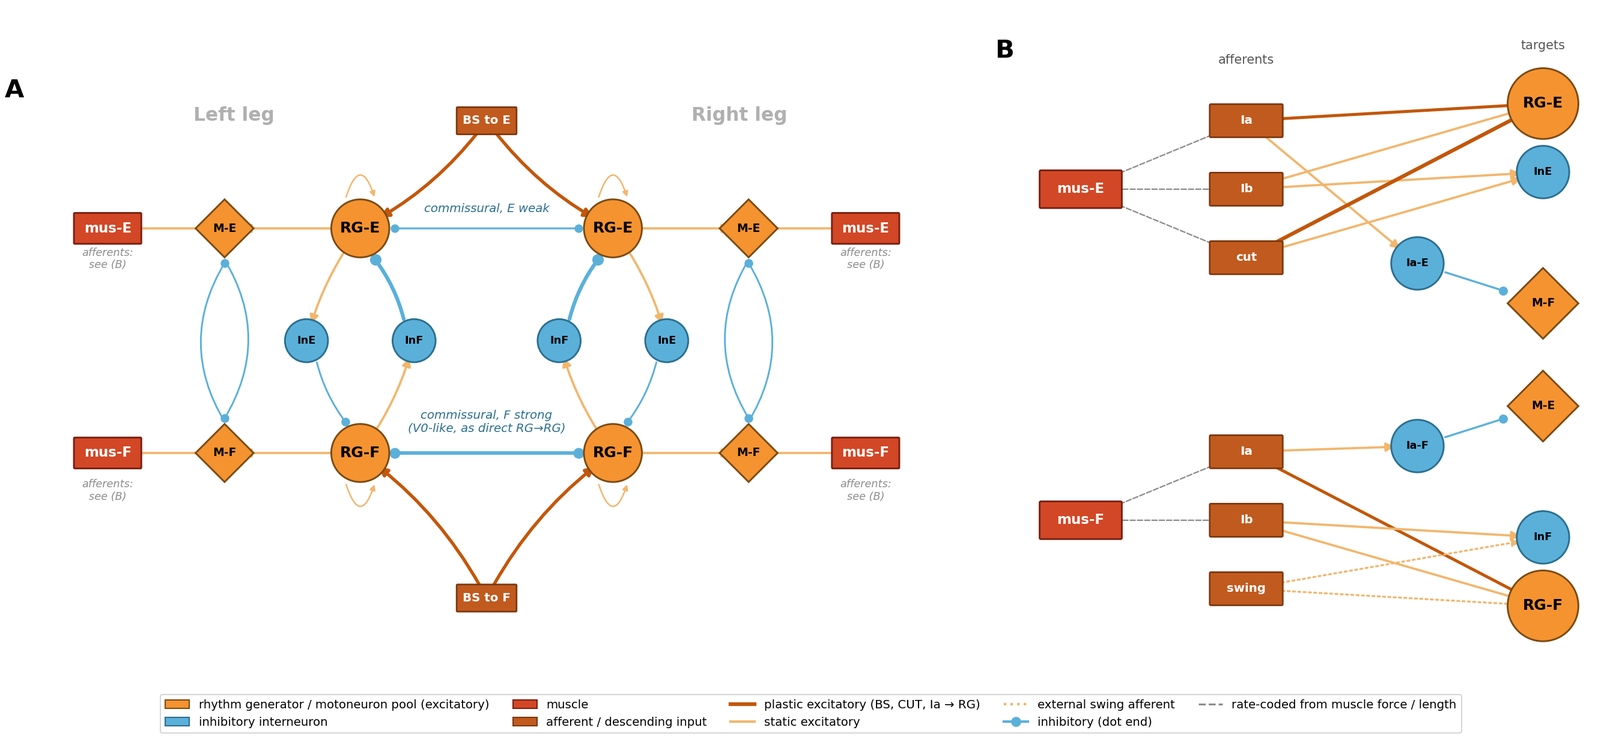
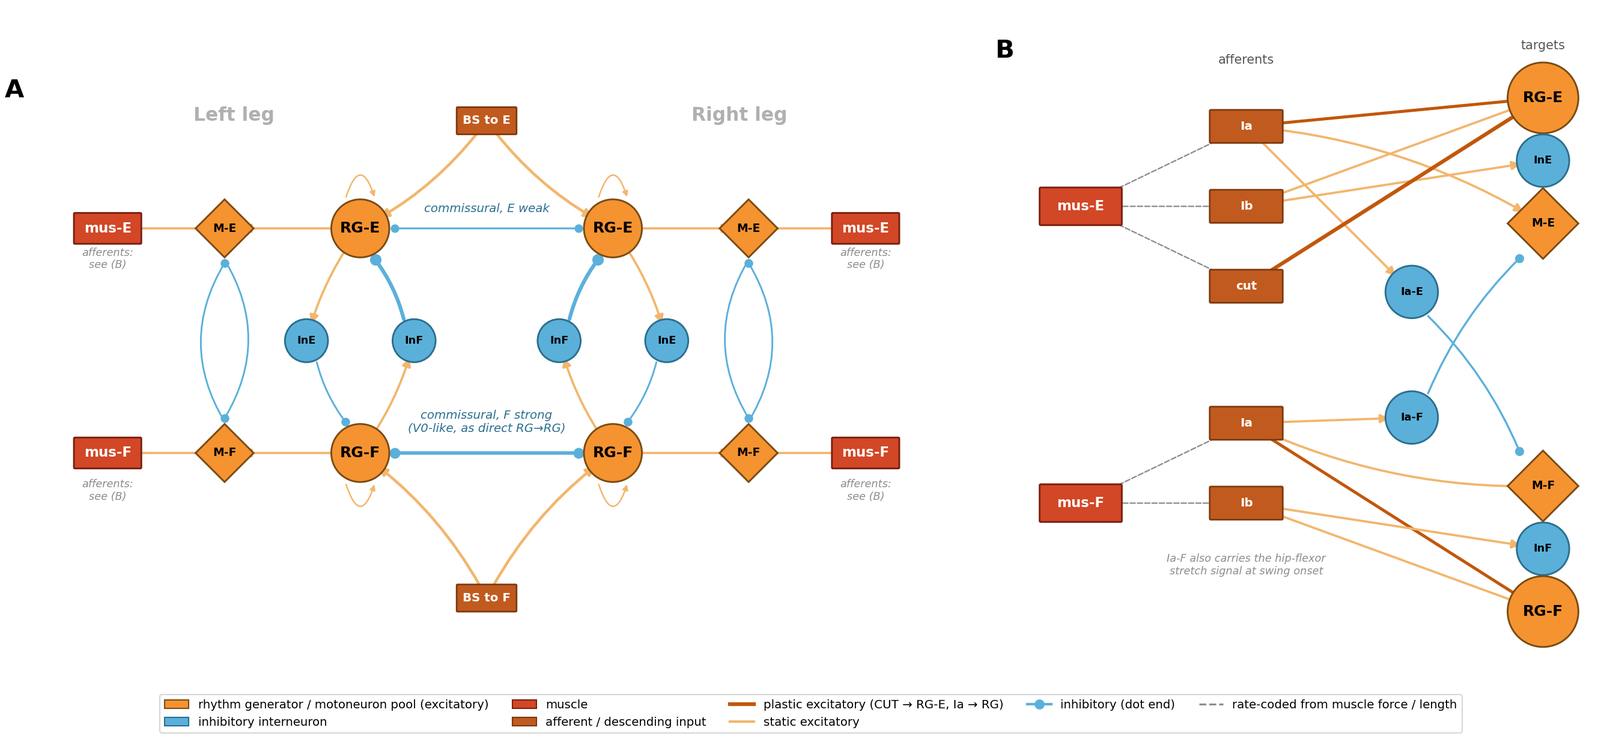
Architecture round (human): homonymous Ia->motoneuron, no CUT->InE, swing afferent folded into the flexor Ia; Figure 1 regenerated; five modes rerun

diff --git a/cpg_2legs_fast.py b/cpg_2legs_fast.py
@@ -705,6 +705,18 @@ def main():
                          "stretch signal; Grillner & Rossignol 1978; Pearson 1995). "
                          "Mirrors the stance Ia-E ramp to clock the flexor. 0 = off "
                          "(legacy intrinsic-only flexor); 80 is a typical on value.")
+    ap.add_argument("--ia-mn-weight", type=float, default=0.0,
+                    help="MOD_IA_MN (PLAN.md P7/P8 architecture round): weight (pA) of the homonymous "
+                         "monosynaptic Ia -> motoneuron excitation (Ia-E -> M-E, Ia-F -> M-F, static, delay "
+                         "ia_path). 0 = none (rat, original wiring). Ia reaches the motoneurons directly "
+                         "as well as the rhythm generators and the Ia interneurons.")
+    ap.add_argument("--p-ia2mn", type=float, default=0.5,
+                    help="MOD_IA_MN: connection probability of Ia -> motoneuron (K = p x production Ia size).")
+    ap.add_argument("--swing-afferent-as-ia", action=argparse.BooleanOptionalAction, default=False,
+                    help="MOD_SWING_AS_IA: the flexor swing afferent (--ia-ext-f-hz, --swing-afferent-tau-ms) is "
+                         "not a separate Poisson group projecting to RG-F and InF: its phasic rate (hip-flexor "
+                         "stretch at swing onset) is added to the flexor Ia afferent rate and acts through "
+                         "the Ia projections (RG-F, Ia interneurons, M-F). Off = original separate group.")
     # ---- MOD_EES: epidural electrical stimulation (PLAN.md P7) ----
     ap.add_argument("--ees-hz", type=float, default=0.0,
                     help="MOD_EES (PLAN.md P7): epidural stimulation pulse rate (Hz), a regular "
@@ -1428,6 +1440,9 @@ def main():
     if EES_HZ < 0.0 or not all(0.0 <= a <= 1.0 for a in (EES_AMP, EES_AMP_IB, EES_AMP_CUT)):
         raise SystemExit("--ees-hz must be >= 0 and --ees-amp / --ees-amp-ib / --ees-amp-cut within 0..1")
 
+    IA_MN_W     = float(args.ia_mn_weight)  # MOD_IA_MN (0 = none)
+    P_IA2MN     = float(args.p_ia2mn)
+    SWING_AS_IA = bool(args.swing_afferent_as_ia)  # MOD_SWING_AS_IA
     # ---- MOD_PACED_GAIT: explicit 1-s trot cycle constants ----
     if PACED_GAIT:
         STEP_PERIOD_MS = q_ms(float(args.step_period_ms))   # full stride (both legs)
@@ -1774,7 +1789,7 @@ def main():
         # 1978; Pearson 1995). A single phasic group active during swing,
         # mirroring the stance Ia-E ramp; drives InF → reinforces the flexor.
         ia_ext_pg_f = None
-        if PACED_GAIT and IA_EXT_F_HZ > 0.0:
+        if PACED_GAIT and IA_EXT_F_HZ > 0.0 and not SWING_AS_IA:
             ia_ext_pg_f = nest.Create("poisson_generator", N_IA_F)
             nest.SetStatus(ia_ext_pg_f, {"rate": 0.0})
 
@@ -2054,8 +2069,9 @@ def main():
 
         # MOD_CUT_REFLEX: CUT → InE — cutaneous afferents reinforce the stance-phase
         # extensor reflex by exciting the flexor-suppressing interneuron.
-        connect("cut_in->in_e", "cut_in", L["cut_in"], L["in_e"], P_CUT2INE,
-                syn_spec={"synapse_model": "static_synapse", "weight": W_CUT2INE, "delay": delay["cut_to_rg"]})
+        if W_CUT2INE != 0.0:  # human: 0 (cutaneous reaches InE through CUT -> RG-E -> InE only)
+            connect("cut_in->in_e", "cut_in", L["cut_in"], L["in_e"], P_CUT2INE,
+                    syn_spec={"synapse_model": "static_synapse", "weight": W_CUT2INE, "delay": delay["cut_to_rg"]})
 
         if USE_STATIC_PARALLEL:
             connect("bs_in_e->rg_e:static_parallel", "bs_in_e", L["bs_in_e"], L["rg_e"], P_STATIC_IN,
@@ -2084,6 +2100,14 @@ def main():
                 syn_spec={"synapse_model": "static_synapse", "weight": W_COMM_E_INH, "delay": delay["commissural"]})
         connect("rg_e->rg_e:commissural", "rg_e", RR["rg_e"], LL["rg_e"], P_COMM_E,
                 syn_spec={"synapse_model": "static_synapse", "weight": W_COMM_E_INH, "delay": delay["commissural"]})
+
+    if IA_MN_W != 0.0:  # MOD_IA_MN: built after everything else (same RNG order for the rest of the network)
+        for side in LEGS:
+            L = leg[side]
+            connect("ia_in_e->m_e", "ia_in_e", L["ia_in_e"], L["m_e"], P_IA2MN,
+                    syn_spec={"synapse_model": "static_synapse", "weight": IA_MN_W, "delay": delay["ia_path"]})
+            connect("ia_in_f->m_f", "ia_in_f", L["ia_in_f"], L["m_f"], P_IA2MN,
+                    syn_spec={"synapse_model": "static_synapse", "weight": IA_MN_W, "delay": delay["ia_path"]})
 
     if unknown_ovr:
         raise ConfigError(f"connectivity.indegree_override has unknown projections {sorted(unknown_ovr)} "
@@ -2618,6 +2642,18 @@ def main():
             nest.SetStatus(rec, {"n_events": 0})
         return cur - last_n, 0
 
+    SWING_AFF_ACTIVE = bool(PACED_GAIT and IA_EXT_F_HZ > 0.0)
+    SWING_AFF_RATE = {"L": 0.0, "R": 0.0}  # MOD_SWING_AS_IA: current swing term added to the flexor Ia rate (Hz)
+
+    def swing_aff_set(side, rate):
+        """Flexor swing afferent rate. Original: a separate Poisson group. MOD_SWING_AS_IA: a term of the flexor Ia."""
+        if not SWING_AFF_ACTIVE:
+            return
+        if SWING_AS_IA:
+            SWING_AFF_RATE[side] = float(rate)
+        else:
+            nest.SetStatus(leg[side]["ia_ext_pg_f"], {"rate": rate})
+
     def update_leg(side: str, t_ms: float, dt_ms_actual: float, cut_active_frac: float, do_rate_update: bool):
         dt_s = float(dt_ms_actual) / 1000.0
         L = leg[side]
@@ -2773,7 +2809,7 @@ def main():
             vel_e = max(0.0, (S["len_e"] - len_e_prev) / dt_s_safe)
             vel_f = max(0.0, (S["len_f"] - len_f_prev) / dt_s_safe)
             ia_e = IA_BASE_HZ + IA_K_STRETCH * stretch_e + IA_K_VEL * vel_e
-            ia_f = IA_BASE_HZ + IA_K_STRETCH * stretch_f + IA_K_VEL * vel_f
+            ia_f = IA_BASE_HZ + IA_K_STRETCH * stretch_f + IA_K_VEL * vel_f + SWING_AFF_RATE[side]
             ib_e = clamp(IA_FEEDBACK_GAIN * (IB_BASE_HZ + IB_K_FORCE * S["force_e"]), 0.0, IB_RATE_MAX_HZ)
             ib_f = clamp(IA_FEEDBACK_GAIN_IB_F * (IB_BASE_HZ + IB_K_FORCE * S["force_f"]), 0.0, IB_RATE_MAX_HZ)
         else:
@@ -2972,8 +3008,7 @@ def main():
             if is_on:
                 # Stance: Ia-E heel->mid->toe sub-group sequenced by elapsed time
                 # since this leg's own stance onset (self-timed, not clock-scheduled).
-                if leg[side]["ia_ext_pg_f"] is not None:
-                    nest.SetStatus(leg[side]["ia_ext_pg_f"], {"rate": 0.0})
+                swing_aff_set(side, 0.0)
                 elapsed = max(0.0, t_now - stance_onset_ms[side])
                 g_idx = min(N_IA_GROUPS_PACED - 1, int(elapsed // max(1e-9, SUB_STANCE_MS)))
                 for gi, g in enumerate(leg[side]["ia_ext_pg_e"]):
@@ -2981,11 +3016,11 @@ def main():
             else:
                 for g in leg[side]["ia_ext_pg_e"]:
                     nest.SetStatus(g, {"rate": 0.0})
-                if leg[side]["ia_ext_pg_f"] is not None:
+                if SWING_AFF_ACTIVE:
                     rate_f = IA_EXT_F_HZ
                     if SWING_AFF_TAU_MS > 0.0:  # PLAN.md P5: phasic swing afferent
                         rate_f = IA_EXT_F_HZ * float(np.exp(-max(0.0, t_now - phase_onset_ms[side]) / SWING_AFF_TAU_MS))
-                    nest.SetStatus(leg[side]["ia_ext_pg_f"], {"rate": rate_f})
+                    swing_aff_set(side, rate_f)
 
         def cut_force_gate(side, t_now):
             # Reads force_e computed by THIS chunk's update_leg() call, which itself
@@ -3210,8 +3245,7 @@ def main():
                                {"rate": CUT_FEEDBACK_GAIN * CUT_RATE_ON_HZ if in_stance else CUT_RATE_OFF_HZ})
                 for gi, g in enumerate(leg[side]["ia_ext_pg_e"]):
                     nest.SetStatus(g, {"rate": IA_EXT_HZ[gi] if gi == g_idx else 0.0})
-                if leg[side]["ia_ext_pg_f"] is not None:
-                    nest.SetStatus(leg[side]["ia_ext_pg_f"], {"rate": 0.0 if in_stance else IA_EXT_F_HZ})
+                swing_aff_set(side, 0.0 if in_stance else IA_EXT_F_HZ)
                 _applied[side] = ph_state[side]
             on = {side: 1.0 if ph_state[side][0] else 0.0 for side in LEGS}
             run_window(min(b - a, SIM_MS - t_ms), cut_active_frac=on, log_cut_on=on)
@@ -3237,16 +3271,14 @@ def main():
             nest.SetStatus(leg[swing]["cut_pg"], {"rate": CUT_RATE_OFF_HZ})
             for g in leg[swing]["ia_ext_pg_e"]:
                 nest.SetStatus(g, {"rate": 0.0})
-            if leg[swing]["ia_ext_pg_f"] is not None:
-                nest.SetStatus(leg[swing]["ia_ext_pg_f"], {"rate": IA_EXT_F_HZ})
+            swing_aff_set(swing, IA_EXT_F_HZ)
 
             # Stance leg: CUT ON, scaled by loading-dependent cutaneous gain
             # (full at weight-bearing, attenuated at toe/air stepping); flexor
             # swing-afferent OFF (this leg is in stance).
             nest.SetStatus(leg[stance]["cut_pg"],
                            {"rate": CUT_FEEDBACK_GAIN * CUT_RATE_ON_HZ})
-            if leg[stance]["ia_ext_pg_f"] is not None:
-                nest.SetStatus(leg[stance]["ia_ext_pg_f"], {"rate": 0.0})
+            swing_aff_set(stance, 0.0)
 
             # Sequential Ia-E sub-groups: heel (60 Hz) → mid (80 Hz) → toe (100 Hz)
             for g_idx in range(N_IA_GROUPS_PACED):
@@ -3363,6 +3395,12 @@ def main():
         h5.attrs["paced_gait"] = bool(PACED_GAIT)
         if EXT_STRENGTH != 1.0:  # MOD_EXT_STRENGTH (absent = intact)
             h5.attrs["extensor_strength"] = float(EXT_STRENGTH)
+        if IA_MN_W != 0.0:  # MOD_IA_MN (absent = none)
+            h5.attrs["ia_mn_weight"] = float(IA_MN_W); h5.attrs["p_ia2mn"] = float(P_IA2MN)
+        if SWING_AS_IA:  # MOD_SWING_AS_IA (absent = separate swing group)
+            h5.attrs["swing_afferent_as_ia"] = True
+        if W_CUT2INE == 0.0:  # no cut -> InE (absent = rat wiring)
+            h5.attrs["cut_to_ine"] = False
         if SREC_W0 > 0.0:  # MOD_EXT_STRENGTH_RECOVERY (absent = fixed gain)
             h5.attrs["strength_recovery_w0"] = SREC_W0
             h5.attrs["strength_recovery_wref"] = SREC_WREF

diff --git a/scripts/cpg_architecture_human.py b/scripts/cpg_architecture_human.py
@@ -1,12 +1,14 @@
 #!/usr/bin/env python3
 """
 cpg_architecture_human.py
-Figure 1 for the human model: the circuit as built by cpg_2legs_fast.py --species human (afferent model 'split';
-plastic CUT->RG-E, BS->RG-E/F and Ia->RG-E/F; static Ib->RG; commissural inhibition between the rhythm generators).
+Figure 1 for the human model: the circuit as built by cpg_2legs_fast.py --species human after the architecture round
+(afferent model 'split'; plastic CUT->RG-E and Ia->RG-E/F; static BS->RG (the human runs freeze BS->RG); static Ib->RG and
+Ib->InE/InF; Ia -> RG, Ia interneurons and homonymous motoneurons; no CUT->InE; no separate swing afferent: the hip-flexor
+stretch signal at swing onset is part of the flexor Ia; commissural inhibition between the rhythm generators).
 Same palette as cpg_architecture_diagram.py (rat, one leg).
   (A) core circuit of both legs: descending drive, rhythm generators, reciprocal inhibition (6:1), motor pools, muscles,
       commissural inhibition between the legs.
-  (B) afferent wiring of one leg (the other is a mirror): Ia, Ib, cutaneous and the external flexor swing afferent.
+  (B) afferent wiring of one leg (the other is a mirror): Ia, Ib and cutaneous.
 Not drawn: the tonic base drive (same targets as BS) and rules rather than wiring (RG-E load gate, force-triggered
 stance/swing, ankle coupling of the muscle lengths, interlimb load transfer).
 Usage: python3 scripts/cpg_architecture_human.py   ->  paper/figures/fig1_architecture_human.png
@@ -78,8 +80,8 @@ for sgn, name in ((-1, "Left leg"), (+1, "Right leg")):
     ax.text(X(8.1), 1.6, "afferents:\nsee (B)", ha="center", fontsize=8.5, color=GREY, style="italic")
 node(ax, "box", (0, 9.7), "BS to E"); node(ax, "box", (0, -0.5), "BS to F")
 for sgn in (-1, 1):
-    edge(ax, (0, 9.7), core[sgn]["RGE"], ORANGE_D, lw=2.6, rad=0.12 * sgn, sa=12, sb=18)
-    edge(ax, (0, -0.5), core[sgn]["RGF"], ORANGE_D, lw=2.6, rad=-0.12 * sgn, sa=12, sb=18)
+    edge(ax, (0, 9.7), core[sgn]["RGE"], ORANGE_L, lw=2.2, rad=0.12 * sgn, sa=12, sb=18)
+    edge(ax, (0, -0.5), core[sgn]["RGF"], ORANGE_L, lw=2.2, rad=-0.12 * sgn, sa=12, sb=18)
 edge(ax, core[-1]["RGF"], core[1]["RGF"], BLUE, inhib=True, lw=2.6, rad=0.0, ra=0.62, rb=0.62)
 edge(ax, core[1]["RGF"], core[-1]["RGF"], BLUE, inhib=True, lw=2.6, rad=0.0, ra=0.62, rb=0.62)
 edge(ax, core[-1]["RGE"], core[1]["RGE"], BLUE, inhib=True, lw=1.3, rad=0.0, ra=0.62, rb=0.62)
@@ -90,14 +92,15 @@ ax.text(-10.3, 10.2, "A", fontsize=20, fontweight="bold")
 
 # ---------------- (B) afferent wiring of one leg ----------------
 ax = axB; ax.set_xlim(-1.4, 9.4); ax.set_ylim(-0.4, 10.4); ax.set_aspect("equal"); ax.axis("off")
-mus = dict(musE=(0.2, 7.9), musF=(0.2, 2.1))
-aff = dict(IaE=(3.1, 9.1), IbE=(3.1, 7.9), CUT=(3.1, 6.7), IaF=(3.1, 3.3), IbF=(3.1, 2.1), SW=(3.1, 0.9))
-tgt = dict(RGE=(8.3, 9.4), InE=(8.3, 8.2), IaIntE=(6.1, 6.6), MF=(8.3, 5.9), ME=(8.3, 4.1), IaIntF=(6.1, 3.4), InF=(8.3, 1.8), RGF=(8.3, 0.6))
+mus = dict(musE=(0.2, 7.6), musF=(0.2, 2.4))
+aff = dict(IaE=(3.1, 9.0), IbE=(3.1, 7.6), CUT=(3.1, 6.2), IaF=(3.1, 3.8), IbF=(3.1, 2.4))
+tgt = dict(RGE=(8.3, 9.5), InE=(8.3, 8.4), ME=(8.3, 7.3), IaIntE=(6.0, 6.1),
+           IaIntF=(6.0, 3.9), MF=(8.3, 2.7), InF=(8.3, 1.6), RGF=(8.3, 0.5))
 node(ax, "mus", mus["musE"], "mus-E"); node(ax, "mus", mus["musF"], "mus-F")
-for k, lab in (("IaE", "Ia"), ("IbE", "Ib"), ("CUT", "cut"), ("IaF", "Ia"), ("IbF", "Ib"), ("SW", "swing")):
+for k, lab in (("IaE", "Ia"), ("IbE", "Ib"), ("CUT", "cut"), ("IaF", "Ia"), ("IbF", "Ib")):
     node(ax, "box", aff[k], lab)
-for k, kind, lab in (("RGE", "rg", "RG-E"), ("InE", "in", "InE"), ("IaIntE", "in", "Ia-E"), ("MF", "mn", "M-F"),
-                     ("ME", "mn", "M-E"), ("IaIntF", "in", "Ia-F"), ("InF", "in", "InF"), ("RGF", "rg", "RG-F")):
+for k, kind, lab in (("RGE", "rg", "RG-E"), ("InE", "in", "InE"), ("ME", "mn", "M-E"), ("IaIntE", "in", "Ia-E"),
+                     ("IaIntF", "in", "Ia-F"), ("MF", "mn", "M-F"), ("InF", "in", "InF"), ("RGF", "rg", "RG-F")):
     node(ax, kind, tgt[k], lab)
 for k in ("IaE", "IbE", "CUT"):
     edge(ax, mus["musE"], aff[k], GREY, style="--", lw=1.1, sa=22, sb=12)
@@ -105,22 +108,24 @@ for k in ("IaF", "IbF"):
     edge(ax, mus["musF"], aff[k], GREY, style="--", lw=1.1, sa=22, sb=12)
 O = dict(sa=12, sb=18)
 edge(ax, aff["IaE"], tgt["RGE"], ORANGE_D, lw=2.4, **O); edge(ax, aff["IaE"], tgt["IaIntE"], ORANGE_L, **O)
+edge(ax, aff["IaE"], tgt["ME"], ORANGE_L, rad=-0.12, **O)
 edge(ax, aff["IbE"], tgt["RGE"], ORANGE_L, **O); edge(ax, aff["IbE"], tgt["InE"], ORANGE_L, **O)
-edge(ax, aff["CUT"], tgt["RGE"], ORANGE_D, lw=3.0, **O); edge(ax, aff["CUT"], tgt["InE"], ORANGE_L, **O)
+edge(ax, aff["CUT"], tgt["RGE"], ORANGE_D, lw=3.0, **O)
 edge(ax, aff["IaF"], tgt["RGF"], ORANGE_D, lw=2.4, **O); edge(ax, aff["IaF"], tgt["IaIntF"], ORANGE_L, **O)
+edge(ax, aff["IaF"], tgt["MF"], ORANGE_L, rad=0.12, **O)
 edge(ax, aff["IbF"], tgt["RGF"], ORANGE_L, **O); edge(ax, aff["IbF"], tgt["InF"], ORANGE_L, **O)
-edge(ax, aff["SW"], tgt["RGF"], ORANGE_L, style=":", lw=1.6, **O); edge(ax, aff["SW"], tgt["InF"], ORANGE_L, style=":", lw=1.6, **O)
-edge(ax, tgt["IaIntE"], tgt["MF"], BLUE, inhib=True, lw=1.6, ra=0.46, rb=0.62)
-edge(ax, tgt["IaIntF"], tgt["ME"], BLUE, inhib=True, lw=1.6, ra=0.46, rb=0.62)
+edge(ax, tgt["IaIntE"], tgt["MF"], BLUE, inhib=True, lw=1.6, rad=-0.1, ra=0.46, rb=0.62)
+edge(ax, tgt["IaIntF"], tgt["ME"], BLUE, inhib=True, lw=1.6, rad=-0.1, ra=0.46, rb=0.62)
 ax.text(3.1, 10.1, "afferents", ha="center", fontsize=10, color="#555"); ax.text(8.3, 10.35, "targets", ha="center", fontsize=10, color="#555")
+ax.text(3.1, 1.15, "Ia-F also carries the hip-flexor\nstretch signal at swing onset", ha="center", fontsize=8.5,
+        color=GREY, style="italic")
 ax.text(-1.3, 10.2, "B", fontsize=20, fontweight="bold")
 
 handles = [Patch(fc=ORANGE, ec="#7a4a12", label="rhythm generator / motoneuron pool (excitatory)"),
            Patch(fc=BLUE, ec="#2b6f8f", label="inhibitory interneuron"), Patch(fc=RED, ec="#7a1f10", label="muscle"),
            Patch(fc=INBOX, ec="#7a3810", label="afferent / descending input"),
-           Line2D([0], [0], color=ORANGE_D, lw=3, label="plastic excitatory (BS, CUT, Ia → RG)"),
+           Line2D([0], [0], color=ORANGE_D, lw=3, label="plastic excitatory (CUT → RG-E, Ia → RG)"),
            Line2D([0], [0], color=ORANGE_L, lw=2, label="static excitatory"),
-           Line2D([0], [0], color=ORANGE_L, lw=2, ls=":", label="external swing afferent"),
            Line2D([0], [0], color=BLUE, lw=2, marker="o", markersize=7, label="inhibitory (dot end)"),
            Line2D([0], [0], color=GREY, lw=1.5, ls="--", label="rate-coded from muscle force / length")]
 fig.legend(handles=handles, loc="lower center", ncol=5, fontsize=9.5, frameon=True, bbox_to_anchor=(0.5, 0.0))

diff --git a/CLAUDE.md b/CLAUDE.md
@@ -2104,6 +2104,7 @@ Cross-leg: L↔R commissural inhibition on RG-F (strong) and RG-E (weak).
 | `MOD_SPINAL_INDUCTION` | **2026-10-02 (PLAN.md P6), human default.** `--plasticity-rule {stdp,spinal}` (rat `stdp`, byte-identical; human `spinal`). The human model has **no STDP**: its plastic pathways (CUT→RG-E, Ia→RG-E/F, BS→RG when not frozen) are static synapses in NEST whose weights Python sets every chunk with a spinal E-LTP induction rule (spec §1.1): Δw = η · Wmax · Δt · x · y(y − θ)/θ, x = presynaptic, y = postsynaptic per-neuron rate over the chunk (/100 Hz; the 50 ms chunk ~ the NMDA integration window), soft bounds (LTP × (1 − w/Wmax), LTD × w/Wmax). Weak postsynaptic activity depresses and strong activity potentiates (calcium-control / NMDA coincidence); θ slides per neuron toward ⟨y²⟩/y0 with τ 5 s (BCM homeostatic metaplasticity), so learning settles without a timing rule. y0 per population (`--spinal-post-target-e/f` 3.8 / 0.9) is calibrated so a naive comfortable walk trains to the old trained state (CUT→RG-E ~57 pA, stance RG-E ~650 Hz, r(E,F) −0.74). `--spinal-eta` 0.003/s (session-chain speed; healthy sources use 0.05 to converge in 120 s), `--spinal-theta-tau-ms` 5000. The induced change is the tag; `MOD_CONSOLIDATE` captures it (the tag decay is applied in the same step, on a Python weight shadow `w_sh`, one NEST write per chunk). `--stdp-lambda` is ignored. Attrs `plasticity_rule`, `spinal_induction_json` (absent = stdp). |
 | `MOD_EES` | **2026-10-05 (PLAN.md P7, first step, debug-small only).** `--ees-hz` (0 = off, no NEST objects, byte-identical; `./regress.sh` ALL PASS) and `--ees-amp` (0–1): a regular tonic pulse train (one `spike_generator` per leg, same pulse times in both legs) onto the Ia-E and Ia-F parrot populations, not gait-phase gated. Each pulse makes a fixed random fraction `amp` of each Ia population fire once (pairwise Bernoulli, delay 1 ms). The pulses act through the existing Ia pathways (Ia→InE/InF, Ia→RG), so they also feed the plasticity rule. Logs `ia_meas_e/f` (measured Ia unit rate incl. pulses; checked: +ees_hz·amp Hz) and attrs `ees_hz`, `ees_amp` (absent = off). `--ees-amp-ib` / `--ees-amp-cut` (default 0 = Ia only) add Ib (needs `--afferent-model split`, human default) and CUT-like recruitment from the same pulses. Built after the whole network (same random wiring and node ids with and without EES, so session chains can load an earlier run). Separate from the external Ia-E heel→toe ramp. **Tuned (PLAN.md P7, debug-small): use CUT-like recruitment only (`--ees-amp 0 --ees-amp-cut 1.0`) at 10 Hz; the Ia/Ib pulses do nothing useful, and 30–40 Hz (any mix) lowers extensor force and stalls or locks the extensor. 10 Hz CUT-like: BWS 50% chain reaches r(E,F) −0.5 at session 6 (no EES: not in 10), BWS 90% CUT→RG-E grows about twice as fast; extensor force 8–9 vs 10.7.** **Finding, Ia only (30 s, debug-small, naive weights, `--bs-drive-scale 0`, no loading, no external ramps):** EES alone never activates the extensor (act_e 0.00 at 0–50 Hz, amp 0.5/1.0) because the RG-E load gate (`MOD_RGE_LOAD_GATE`) needs ground contact; the flexor rises with frequency and goes tonic at 40–50 Hz (act_f 0.9–1.2, stride pinned at the 2 s cap). So the 7c pattern (5–15 Hz tonic extension, 25–50 Hz rhythmic E/F) is not reproduced yet: EES must also reach the gate (Ib / cutaneous-like recruitment, or an EES term at RG-E). **Finding with Ib + CUT recruitment** (same setup, Ia 0.5, Ib 0.5, CUT 0.2/0.5/1.0, 5–50 Hz): the extensor activates once CUT-like recruitment reaches the gate: act_e 0.01–0.2 at CUT 0.2, up to 0.76 at CUT 0.5 / 50 Hz, and 1.0–1.1 (tonic, Eact 0.91–0.99) at CUT 1.0 / 40–50 Hz, but then co-active with the flexor (act_f 1.15, r +0.5). At 5–25 Hz the extensor is weak (≤ 0.44) and E/F alternation is absent (|r| ≤ 0.12). The frequency dependence is therefore the reverse of the 7c target (tonic extension at 5–15 Hz, rhythmic E/F at 25–50 Hz): drive grows with pulse rate and nothing makes the output rhythmic. Untrained weights, 30 s; not yet tried with trained or injured-start weights. `scripts/p7_ees_summary.py` tabulates sweeps. |
 | `MOD_EXT_STRENGTH` | **2026-10-06 (PLAN.md P7b).** `--extensor-strength s` (0–1, default 1 = unchanged, `./regress.sh` ALL PASS): gain on the extensor force target, a graded weakness (SCI patients cannot carry their weight; the support equipment takes it, modelled by the loading gains). Attr `extensor_strength` (absent = 1). Grid with loading in PLAN.md P7: s 1 → 0.1 lowers Force-E 10 → 1, lengthens stride 1.26 → 1.5–1.65 s and stance 0.57 → 0.63–0.66; r(E,F) is set mainly by the loading. `--init-weights-scale` (pathway weights) is all-or-nothing through the RG-E gate and is not a graded weakness. |
+| `MOD_IA_MN` / `MOD_SWING_AS_IA` / no CUT→InE | **2026-10-13 (architecture round, human only; `./regress.sh` ALL PASS).** (1) `--ia-mn-weight W` (0 = none, rat; human 6 pA, **not calibrated**) and `--p-ia2mn` (0.5): homonymous monosynaptic Ia-E→M-E and Ia-F→M-F, static, delay `ia_path`, built after the whole network. Ia now reaches the rhythm generators (plastic), the Ia interneurons and the motoneurons. (2) `--swing-afferent-as-ia` (human default on): there is no separate swing Poisson group projecting to RG-F/InF; its phasic rate (`--ia-ext-f-hz` 80 Hz, decay `--swing-afferent-tau-ms` 150 ms from swing onset: hip-flexor stretch) is added to the flexor Ia afferent rate and acts through the Ia projections (RG-F, Ia interneuron → M-E, M-F). (3) `W_CUT2INE: 0` in `human.yaml`: no cutaneous → InE (the connection is not built when the weight is 0); CUT reaches InE only through CUT → RG-E → InE. Ib projections unchanged. Attrs `ia_mn_weight`, `p_ia2mn`, `swing_afferent_as_ia`, `cut_to_ine` (absent = rat wiring). **Wiring changed: every human source and chain made before this (including the MN5 `p6_spinal` sources and the P7 chains) cannot be loaded (`--init-weights-from` refuses the synapse lists); regenerate.** Human runs freeze BS→RG (`--freeze-bs-rg`): BS→RG is static. Figure: `scripts/cpg_architecture_human.py`. Five modes after the change (debug-small, seed 12345): r(E,F) −0.72…−0.80, stride within 5% of before, BWS 50% injured start r(E,F) −0.06 (before −0.30) rising to −0.36 at session 10 (before −0.47); reflex latency to the muscle 28.8 ms (before 30.2). |
 | `MOD_EXT_STRENGTH_RECOVERY` | **2026-10-08 (PLAN.md P7b).** `--strength-recovery-w0 W0` (0 = off, `--extensor-strength` stays a fixed gain; default) and `--strength-recovery-wref` (56.5 pA): the extensor strength follows the captured CUT→RG-E weight, `s_eff = s + (1 − s) · clamp((w − W0)/(wref − W0), 0, 1)` per leg, w = mean baseline weight (needs `--consolidate`), updated at every weight-sampling tick; the weight is loaded across sessions, so strength carries over. Debug-small W0 = 14.1 (healthy 56.5 × 0.25 injured start). Attrs `strength_recovery_w0/wref`, `ext_strength_eff_start_L/R`, `ext_strength_eff_end_L/R` (absent = off). `run_p7_chain_mn5.sh` flagset `REC`. |
 | `MOD_BS_DRIVE_SCALE` | **2026-10-05 (PLAN.md P7b/c).** `--bs-drive-scale s` scales both descending inputs (tonic BS rate and the base drive): 1 = intact (default, unchanged), 0 < s < 1 incomplete SCI, 0 complete (no descending spikes). Attr `bs_drive_scale` (absent = 1). With the loaded comfortable walk and the external afferent ramps on, s = 0 still alternates (r(E,F) −0.29, stride 1.39 s): those gait-phase afferents carry the rhythm. |
 | `MOD_INTERLIMB_LOAD` | **2026-09-28 (PLAN.md P5).** `--liftoff-needs-contra-stance` (human default on, rat off): under `--cut-trigger force` a leg may end stance on force only while the other leg is in stance (interlimb load rule; Duysens & Pearson 1980 — to verify). Removes flight phases in walking; the stance cap still applies. Attr `liftoff_needs_contra_stance` (absent = off). |

diff --git a/PLAN.md b/PLAN.md
@@ -1681,6 +1681,20 @@ tonic EES.
 - **EES alternation gain depends on s.** At s 0.25 it holds in all seeds (r(E,F) better by 0.13–0.30 at session 10, mean −0.21). At s 0.5 it is large early (−0.31 vs −0.14 at session 1) but gone by session 10, because the no-EES chain catches up (difference +0.01, within the seed spread). So the earlier single-seed statement that 10 Hz EES helps alternation holds for the weak extensor and for the early sessions, not for the end state at s 0.5.
 - Caveats: three seeds at debug-small; w0 and wref are debug-small values (check against the production source before `REC` is used on MN5); the linear weight-to-strength mapping is an assumption.
 
+**Architecture round (2026-10-13, debug-small, seed 12345; `plots/p7/arch2_modes_chain_stages.png`, `paper/figures/fig1_architecture_human.png`).** Requested changes: keep the Ib projections; Ia reaches the motoneurons (new static Ia-E→M-E, Ia-F→M-F, 6 pA, p 0.5, not calibrated) and the rhythm generators; no CUT→InE (CUT reaches InE through CUT→RG-E→InE); the swing afferent (hip-flexor stretch at swing onset) is a term of the flexor Ia (80 Hz, τ 150 ms) instead of a separate group onto RG-F and InF; everything else kept. Compared with the model before (session 1 → 10 of the chains):
+
+| chain | r(E,F) before | r(E,F) after | stride (ms) before → after | CUT→RG-E (pA) after |
+|---|---|---|---|---|
+| walk slow | −0.78 → −0.78 | −0.75 → −0.77 | 1410 → 1410 | 58 → 64 |
+| walk comfortable | −0.73 → −0.74 | −0.72 → −0.72 | 1144 → 1170 | 58 → 63 |
+| walk fast | −0.78 → −0.79 | −0.79 → −0.79 | 984 → 935 | 56 → 62 |
+| BWS 50% | −0.36 → −0.47 | −0.06 → −0.36 | 1148 → 1064 (s1) | 17.5 → 41.5 |
+| BWS 90% | −0.19 (s1) → −0.25 | −0.18 → −0.22 | 787 → 752 (s1) | 39 → 46 |
+
+- The healthy modes are unchanged within a few percent. The injured start alternates less well than before (BWS 50% r(E,F) −0.06 vs −0.30 at the start) and recovers to −0.36 by session 10 (before −0.47). Reflex latency to the muscle: 28.8 ms (before 30.2).
+- Consequences: the wiring changed, so all earlier human sources and chains (local P7 and the MN5 `p6_spinal` sources) cannot be loaded and must be regenerated; the P7 EES / weak-extensor / recovery chains, the 7b grid and the P8 comparison are not rerun and predate this change. EES recruits Ia, so it now also evokes the direct Ia→MN reflex. The Ia→MN weight is an assumption.
+- Human runs freeze BS→RG (`--freeze-bs-rg`): BS→RG is static; the first version of Figure 1 drew it as plastic.
+
 Not done: serotonergic supply parameter, Ia→RG plasticity check, production-size runs, and a check of w0/wref against the production source before `REC` is used on MN5.
 
 ### Phase 8 — Validation against human data (M, plus data access)
